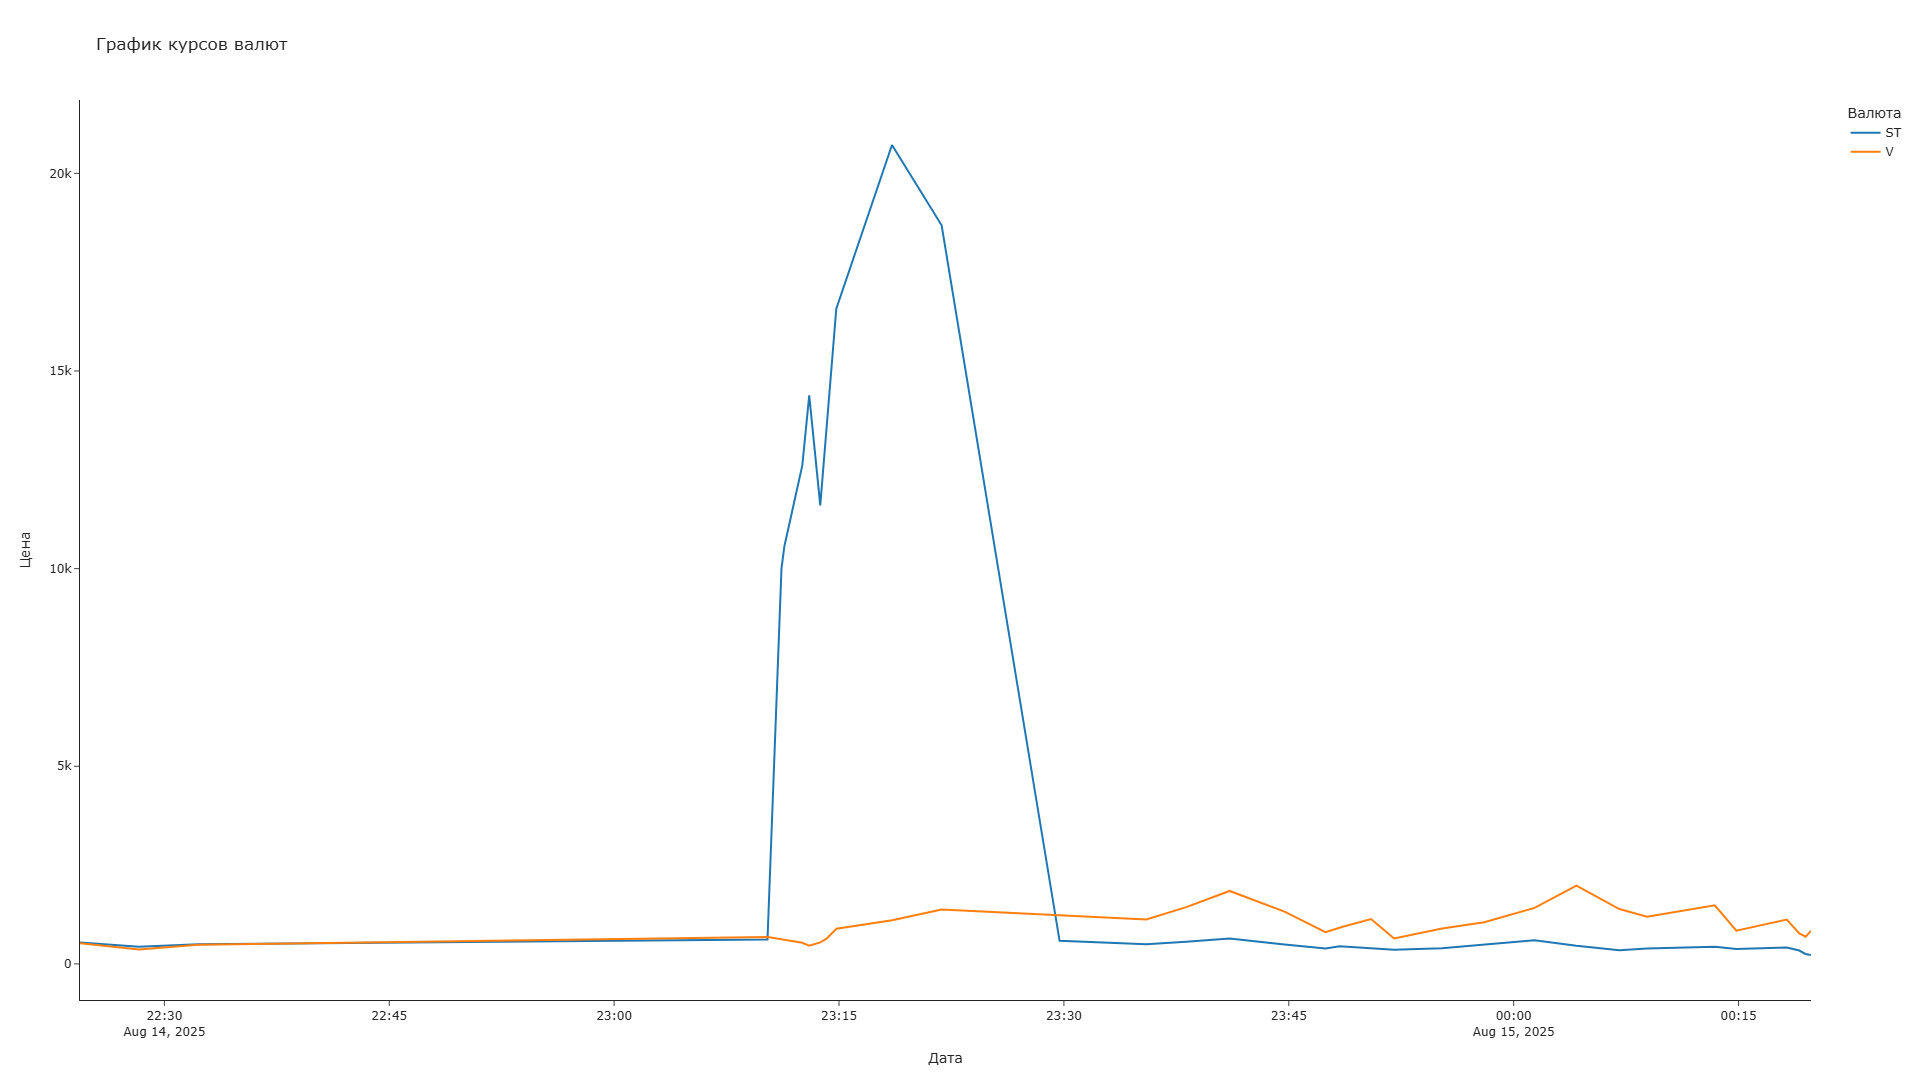
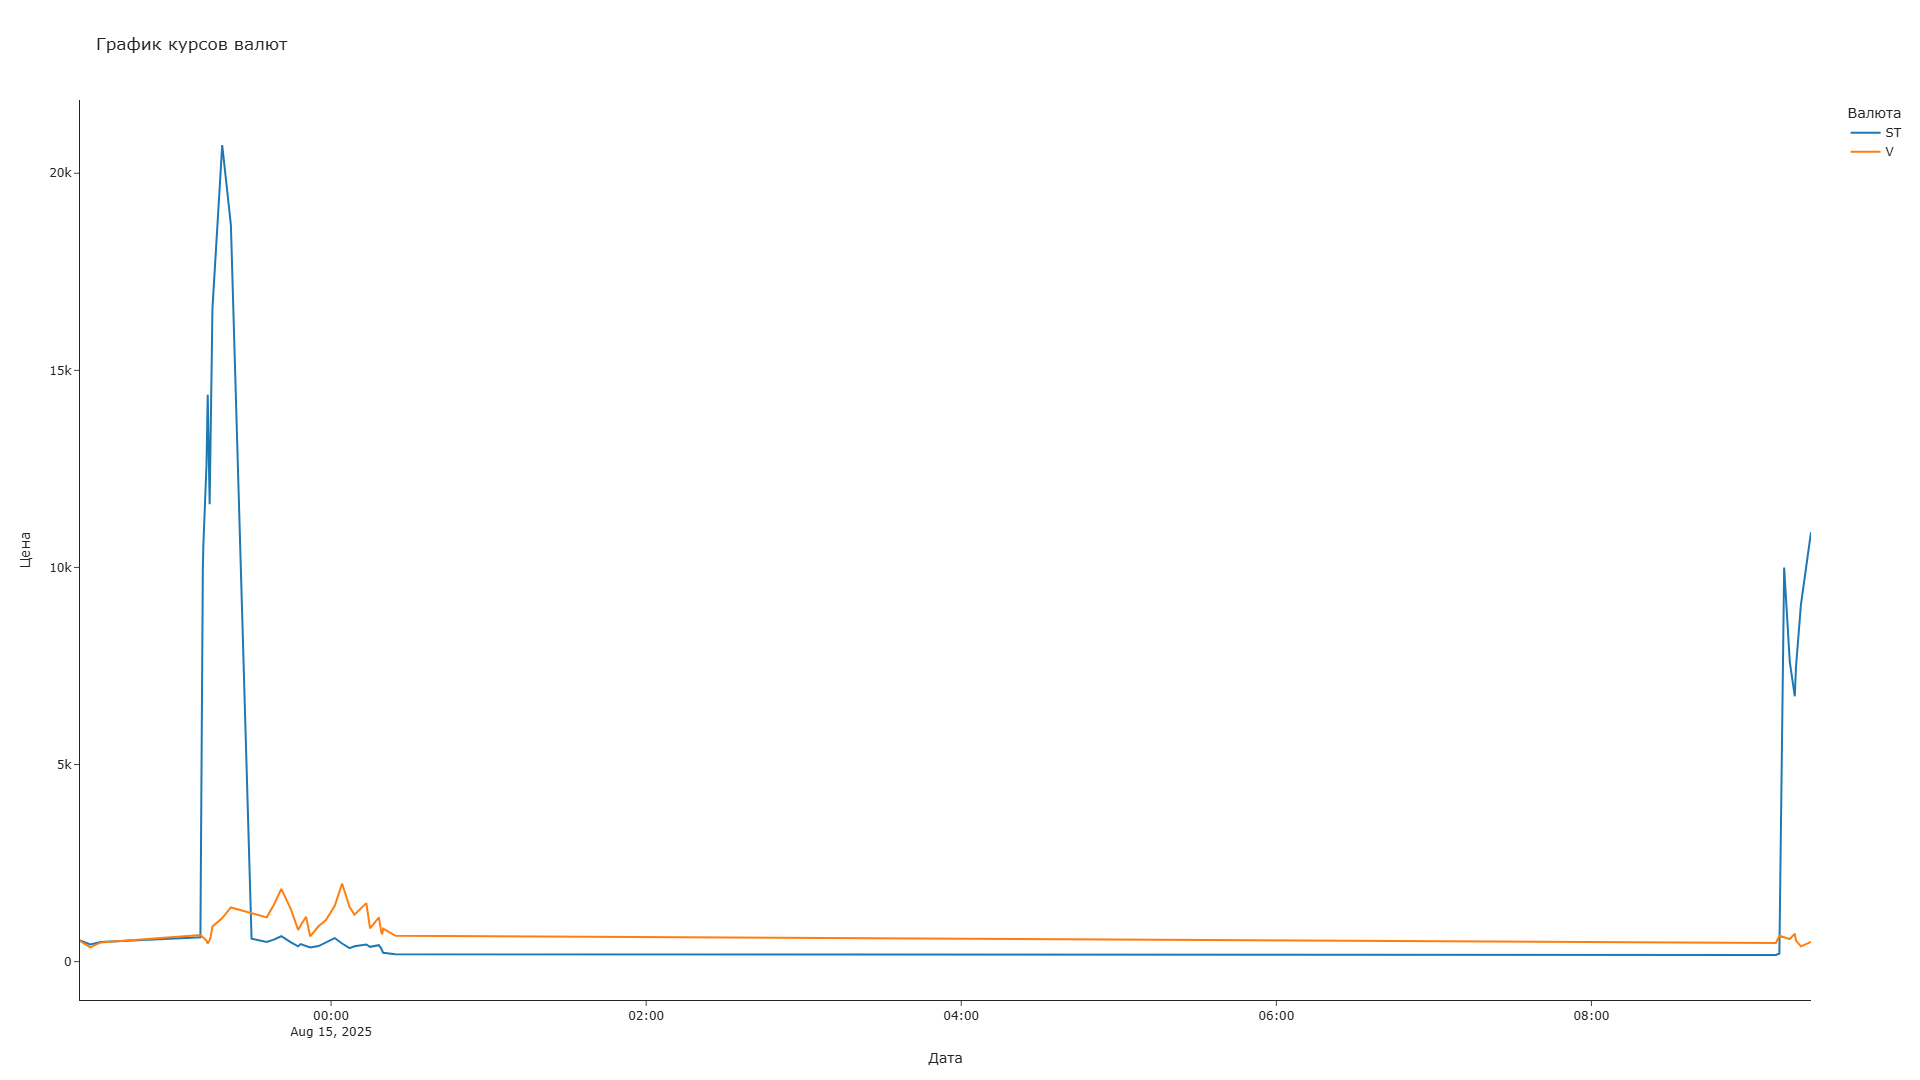
fix(coins): :bug: now, with manual changes, the graph is also updated
При ручном изменении цены валюты меняется график, в профиль добавлены casino pts

diff --git a/database/messages.py b/database/messages.py
@@ -122,20 +122,27 @@ async def send_profile(user_id: int, username: str | None, message: Message | Ca
     :param message: Message или CallbackQuery (зависит от расположения функции)
     :return: None
     """
+
     data: TableProfile = await get_profile(user_id)
+
     st_price = await get_price("st")
     v_price = await get_price("v")
-    st_value: float = st_price['cost'] * data['st']
-    v_value: float = v_price['cost'] * data['v']
-    total_value = data['rubles'] + st_value + v_value
+    st_value: float = st_price.get("cost") * data.get("st")
+    v_value: float = v_price.get("cost") * data.get("v")
+
+    total_value = data.get("rubles") + st_value + v_value
     total_formatted_value = await format_number(total_value)
+
     data_for_table: TableProfile = [
-        ('RUB', data['rubles'], '—'),
-        ('ST', data['st'], await format_number(st_value)),
-        ('V', data['v'], await format_number(v_value)),
-        ('BOX', data['box'], '—')
+        ('RUB', data.get("rubles"), '—'),
+        ('ST', data.get("st"), await format_number(st_value)),
+        ('V', data.get("v"), await format_number(v_value)),
+        ('BOX', data.get("box"), '—'),
+        ('CAS. PTS', data.get("casino_pts"), '—'),
     ]
+
     table = await send_table(data_for_table, total_formatted_value)
+
     username_text = f"@{username}" if username else ""
     text = f"<b>📋 Профиль пользователя {username_text}</b> (<i>{user_id}</i>)\n\n<pre>{table}</pre>"
     profile_buttons = await create_profile_buttons(user_id)

diff --git a/callbacks/common.py b/callbacks/common.py
@@ -1,6 +1,7 @@
 from aiogram import Bot, Router
 from aiogram.fsm.context import FSMContext
 from aiogram.types import CallbackQuery, FSInputFile
+from aiogram.exceptions import TelegramBadRequest
 
 from database.core import db
 from database.loot import show_items
@@ -23,7 +24,12 @@ async def coins_handler(call: CallbackQuery, bot: Bot, state: FSMContext):
     if call.data == "cancel":
         await state.clear()
         await bot.answer_callback_query(call.id)
-        await call.message.edit_text('✅ <b>Действие отменено</b>')
+
+        try:
+            await call.message.edit_text('✅ <b>Действие отменено</b>')
+        except TelegramBadRequest:
+            await call.message.delete()
+            await call.message.answer('✅ <b>Действие отменено</b>')
     
     elif call.data == "items":
         await bot.answer_callback_query(call.id)

diff --git a/database/currencies.py b/database/currencies.py
@@ -355,6 +355,7 @@ async def change_coin(name: str, bot: Bot, price: float | None = None) -> None:
             await change_trend_score(name, 0)
             await send_for_admins(bot, f"⚠ {name.upper()} была вручную изменена администратором.\n\nТекущая цена: {price}")
             await log_coin_change(name, price)
+            await create_graph()
         except Exception as e:
             await send_for_admins(bot, f"❌ Произошла ошибка во время ручного изменения цены {name.upper()}: {e}")
         return
